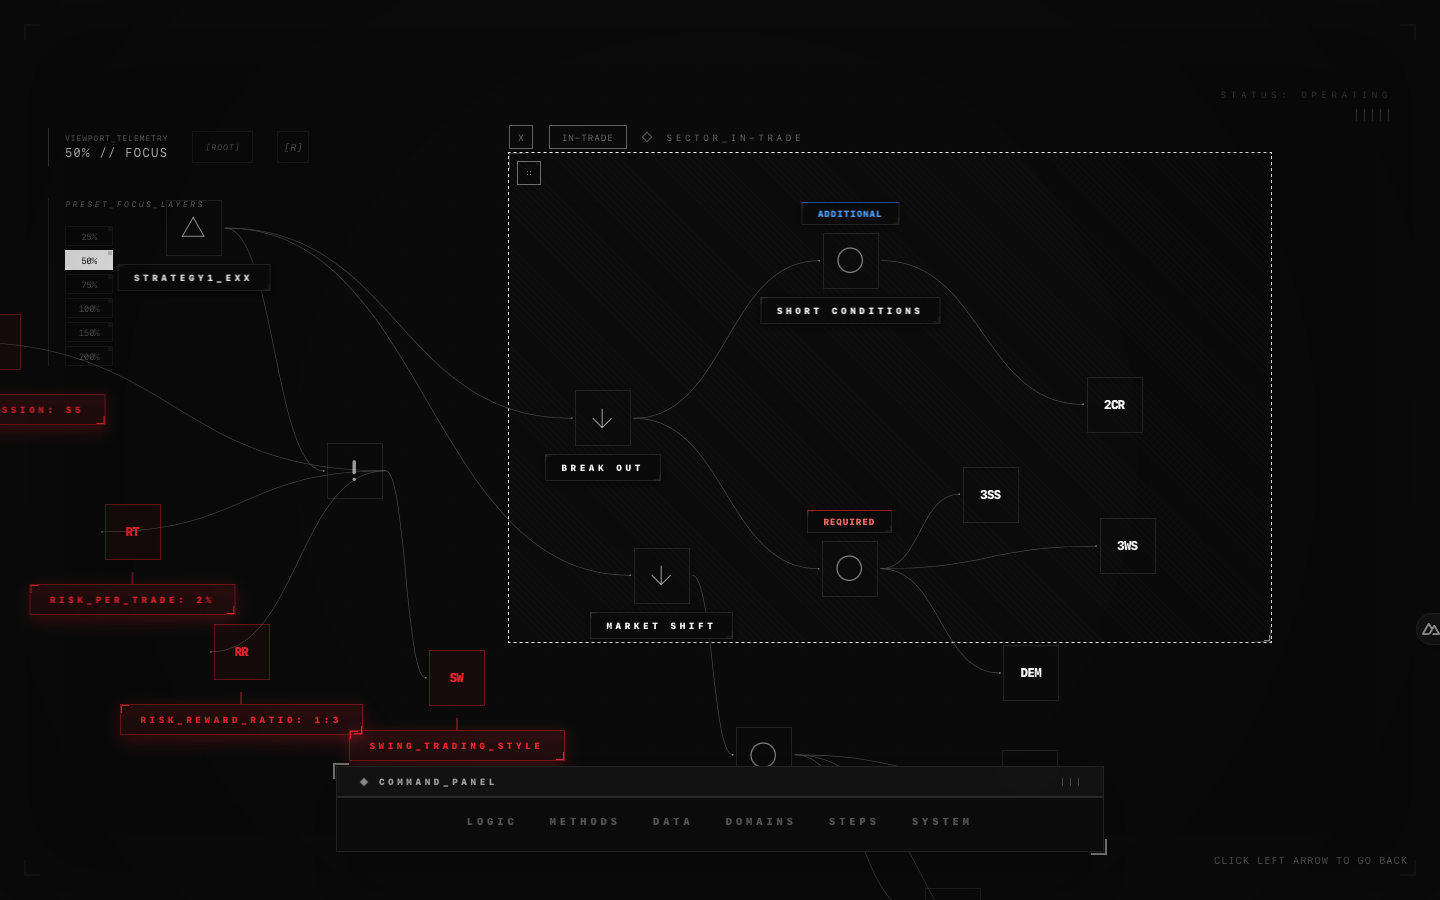
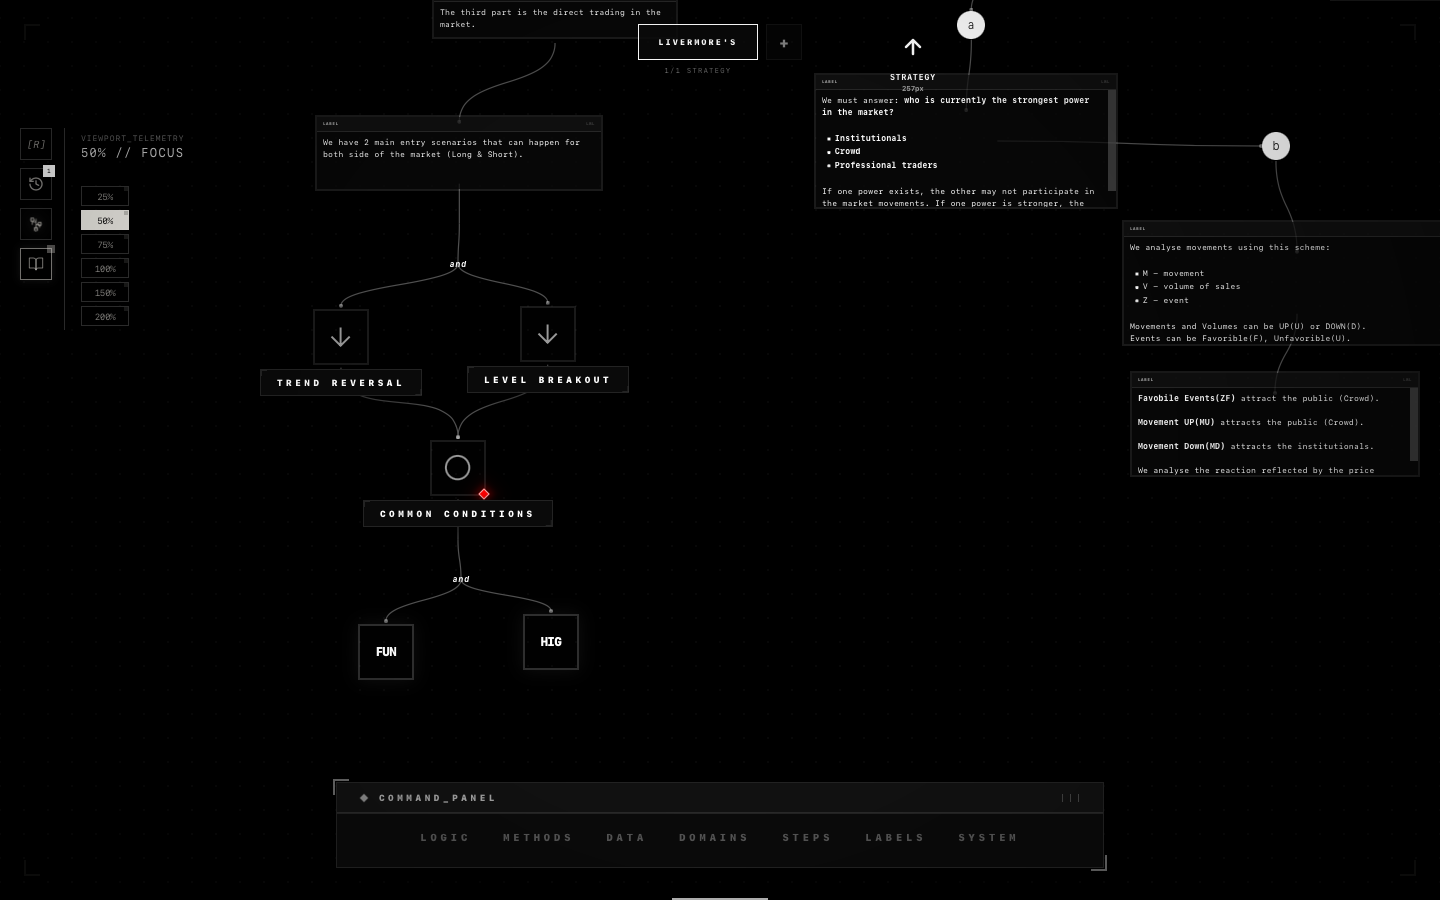
feat: update landing page feature layout and replace screenshots with new visuals

diff --git a/src/components/Main.vue b/src/components/Main.vue
@@ -340,114 +340,88 @@
       </div>
 
       <!-- Feature 1: Genesis Matrix -->
-      <div class="grid grid-cols-1 md:grid-cols-2 gap-16 lg:gap-24 items-center">
-        <div class="space-y-8 order-2 md:order-1">
-          
+      <div class="grid grid-cols-1 md:grid-cols-12 gap-12 lg:gap-16 items-center">
+        <div class="space-y-6 order-2 md:order-1 md:col-span-5">
           <h3 class="text-3xl lg:text-4xl font-light tracking-wide uppercase">{{ t('landing.features.genesis.title') }}</h3>
-          <p class="text-[16px] lg:text-[18px] leading-relaxed opacity-70 font-light">
+          <p class="text-[16px] lg:text-[18px] leading-relaxed opacity-80 font-light">
             {{ t('landing.features.genesis.desc') }}
           </p>
-          <ul class="space-y-3 font-mono text-[13px] lg:text-[15px] opacity-60">
-            <li class="flex items-center space-x-3">
-              <span class="w-2 h-2 rotate-45 bg-current"></span>
-              <span>{{ t('landing.features.genesis.point1') }}</span>
-            </li>
-            <li class="flex items-center space-x-3">
-              <span class="w-2 h-2 rotate-45 bg-current"></span>
-              <span>{{ t('landing.features.genesis.point2') }}</span>
-            </li>
-          </ul>
         </div>
-        <div class="order-1 md:order-2 relative group overflow-hidden border transition-all duration-500" :class="isDark ? 'border-white/10 hover:border-sky-500/30' : 'border-slate-200 hover:border-sky-600/30'">
+        <div class="order-1 md:order-2 md:col-span-7 relative w-full">
           <img 
             src="/screenshots/genesis-matrix.png" 
             alt="Genesis Matrix" 
-            class="w-full h-auto object-cover grayscale opacity-90 group-hover:grayscale-0 group-hover:scale-[1.02] transition-all duration-700"
+            class="w-full h-auto object-contain"
           />
         </div>
       </div>
 
-      <!-- Feature 2: Detailed Analysis / Virtual Log -->
-      <div class="grid grid-cols-1 md:grid-cols-2 gap-16 lg:gap-24 items-center">
-        <div class="relative group overflow-hidden border transition-all duration-500" :class="isDark ? 'border-white/10 hover:border-purple-500/30' : 'border-slate-200 hover:border-purple-600/30'">
-          <img 
-            src="/screenshots/detailed-analysis.png" 
-            alt="Detailed Analysis" 
-            class="w-full h-auto object-cover grayscale opacity-90 group-hover:grayscale-0 group-hover:scale-[1.02] transition-all duration-700"
-          />
-        </div>
-        <div class="space-y-8">
-          
-          <h3 class="text-3xl lg:text-4xl font-light tracking-wide uppercase">{{ t('landing.features.virtualLog.title') }}</h3>
-          <p class="text-[16px] lg:text-[18px] leading-relaxed opacity-70 font-light">
-            {{ t('landing.features.virtualLog.desc') }}
+      <!-- Feature 2: Trades Tree -->
+      <div class="grid grid-cols-1 md:grid-cols-12 gap-12 lg:gap-16 items-center">
+        <div class="space-y-6 order-2 md:order-1 md:col-span-5">
+          <h3 class="text-3xl lg:text-4xl font-light tracking-wide uppercase">{{ t('landing.features.tradesTree.title') }}</h3>
+          <p class="text-[16px] lg:text-[18px] leading-relaxed opacity-80 font-light">
+            {{ t('landing.features.tradesTree.desc') }}
           </p>
-          <ul class="space-y-3 font-mono text-[13px] lg:text-[15px] opacity-60">
-            <li class="flex items-center space-x-3">
-              <span class="w-2 h-2 rotate-45 bg-current"></span>
-              <span>{{ t('landing.features.virtualLog.point1') }}</span>
-            </li>
-            <li class="flex items-center space-x-3">
-              <span class="w-2 h-2 rotate-45 bg-current"></span>
-              <span>{{ t('landing.features.virtualLog.point2') }}</span>
-            </li>
-          </ul>
+        </div>
+        <div class="order-1 md:order-2 md:col-span-7 relative w-full">
+          <img 
+            src="/screenshots/trades-tree.png" 
+            alt="Trades Tree" 
+            class="w-full h-auto object-contain"
+          />
         </div>
       </div>
 
-      <!-- Feature 3: Advanced Equity Analysis -->
-      <div class="grid grid-cols-1 md:grid-cols-2 gap-16 lg:gap-24 items-center">
-        <div class="space-y-8 order-2 md:order-1">
-         
+
+      <!-- Feature 4: Deep Data -->
+      <div class="grid grid-cols-1 md:grid-cols-12 gap-12 lg:gap-16 items-center">
+        <div class="space-y-6 order-2 md:order-1 md:col-span-5">
+          <h3 class="text-3xl lg:text-4xl font-light tracking-wide uppercase">{{ t('landing.features.deepData.title') }}</h3>
+          <p class="text-[16px] lg:text-[18px] leading-relaxed opacity-80 font-light">
+            {{ t('landing.features.deepData.desc') }}
+          </p>
+        </div>
+        <div class="order-1 md:order-2 md:col-span-7 relative w-full">
+          <img 
+            src="/screenshots/deep-data.png" 
+            alt="Deep Data Telemetry" 
+            class="w-full h-auto object-contain"
+          />
+        </div>
+      </div>
+
+      <!-- Feature 5: Advanced Equity Analysis -->
+      <div class="grid grid-cols-1 md:grid-cols-12 gap-12 lg:gap-16 items-center">
+        <div class="space-y-6 order-2 md:order-1 md:col-span-5">
           <h3 class="text-3xl lg:text-4xl font-light tracking-wide uppercase">{{ t('landing.features.equity.title') }}</h3>
-          <p class="text-[16px] lg:text-[18px] leading-relaxed opacity-70 font-light">
+          <p class="text-[16px] lg:text-[18px] leading-relaxed opacity-80 font-light">
             {{ t('landing.features.equity.desc') }}
           </p>
-          <ul class="space-y-3 font-mono text-[13px] lg:text-[15px] opacity-60">
-            <li class="flex items-center space-x-3">
-              <span class="w-2 h-2 rotate-45 bg-current"></span>
-              <span>{{ t('landing.features.equity.point1') }}</span>
-            </li>
-            <li class="flex items-center space-x-3">
-              <span class="w-2 h-2 rotate-45 bg-current"></span>
-              <span>{{ t('landing.features.equity.point2') }}</span>
-            </li>
-          </ul>
         </div>
-        <div class="order-1 md:order-2 relative group overflow-hidden border transition-all duration-500" :class="isDark ? 'border-white/10 hover:border-emerald-500/30' : 'border-slate-200 hover:border-emerald-600/30'">
+        <div class="order-1 md:order-2 md:col-span-7 relative w-full">
           <img 
             src="/screenshots/3d-equity.png" 
-            alt="3D Equity" 
-            class="w-full h-auto object-cover grayscale opacity-90 group-hover:grayscale-0 group-hover:scale-[1.02] transition-all duration-700"
+            alt="Advanced Equity Analysis" 
+            class="w-full h-auto object-contain"
           />
         </div>
       </div>
 
-      <!-- Feature 4: Isometric Engine Core (3D Cube) -->
-      <div class="grid grid-cols-1 md:grid-cols-2 gap-16 lg:gap-24 items-center">
-        <div class="relative group overflow-hidden border transition-all duration-500" :class="isDark ? 'border-white/10 hover:border-rose-500/30' : 'border-slate-200 hover:border-rose-600/30'">
-          <img 
-            src="/screenshots/3d-cube.png" 
-            alt="3D Cube" 
-            class="w-full h-auto object-cover grayscale opacity-90 group-hover:grayscale-0 group-hover:scale-[1.02] transition-all duration-700"
-          />
-        </div>
-        <div class="space-y-8">
-         
-          <h3 class="text-3xl lg:text-4xl font-light tracking-wide uppercase">{{ t('landing.features.engine.title') }}</h3>
-          <p class="text-[16px] lg:text-[18px] leading-relaxed opacity-70 font-light">
-            {{ t('landing.features.engine.desc') }}
+      <!-- Feature 6: Forum -->
+      <div class="grid grid-cols-1 md:grid-cols-12 gap-12 lg:gap-16 items-center">
+        <div class="space-y-6 order-2 md:order-1 md:col-span-5">
+          <h3 class="text-3xl lg:text-4xl font-light tracking-wide uppercase">{{ t('landing.features.forum.title') }}</h3>
+          <p class="text-[16px] lg:text-[18px] leading-relaxed opacity-80 font-light">
+            {{ t('landing.features.forum.desc') }}
           </p>
-          <ul class="space-y-3 font-mono text-[13px] lg:text-[15px] opacity-60">
-            <li class="flex items-center space-x-3">
-              <span class="w-2 h-2 rotate-45 bg-current"></span>
-              <span>{{ t('landing.features.engine.point1') }}</span>
-            </li>
-            <li class="flex items-center space-x-3">
-              <span class="w-2 h-2 rotate-45 bg-current"></span>
-              <span>{{ t('landing.features.engine.point2') }}</span>
-            </li>
-          </ul>
+        </div>
+        <div class="order-1 md:order-2 md:col-span-7 relative w-full">
+          <img 
+            src="/screenshots/forum.png" 
+            alt="Forum" 
+            class="w-full h-auto object-contain"
+          />
         </div>
       </div>
     </section>

diff --git a/src/shared/i18n/translations.ts b/src/shared/i18n/translations.ts
@@ -19,27 +19,24 @@ export const translations = {
         subtitle: "Analytical Grid Capabilities",
         genesis: {
           title: "Genesis Matrix",
-          desc: "An interactive environment designed for creating a comprehensive trading system through nodes and advanced connection systems. Easily map out your algorithmic flow.",
-          point1: "Node-based system creation",
-          point2: "Visual connection mapping"
+          desc: "An advanced, interactive environment engineered for architecting comprehensive trading systems from the ground up. Precisely map out complex algorithmic flows and define conditional logic paths using an intuitive node-based interface."
         },
-        virtualLog: {
-          title: "Virtual Log & Trading Diary",
-          desc: "A comprehensive journal for analyzing your trading system scenarios, reviewing the precise conditions used for opening and closing trades, and checking your emotional state.",
-          point1: "Trade condition analysis",
-          point2: "Emotional state logging"
+        tradesTree: {
+          title: "Strategy Architecture",
+          desc: "Visualize and manage your entire trading protocol as a clearly structured hierarchical node tree. Isolate variables, define strict logic gates, and separate execution layers with absolute clarity."
+        },
+
+        deepData: {
+          title: "Deep Data Telemetry",
+          desc: "Dive deeply into granular performance metrics, risk exposure, and dynamic system indicators. Track every single tick and scenario outcome to continuously refine your edge in the market."
         },
         equity: {
           title: "Advanced Equity Analysis",
-          desc: "Expose and visualize your portfolio's performance with comprehensive robustness diagnostics and advanced equity simulations. Stress-test your models under various dynamic scenarios.",
-          point1: "Robustness diagnostics",
-          point2: "Equity simulations"
+          desc: "Expose and visualize the true performance of your portfolio with comprehensive robustness diagnostics and advanced equity simulations. Stress-test your models under various dynamic market conditions."
         },
-        engine: {
-          title: "Isometric Engine Core",
-          desc: "The visual heart of the platform. The application is entirely focused on delivering a stunning visual look and seamless interactivity, ensuring your experience is both beautiful and intuitive.",
-          point1: "Premium visual aesthetics",
-          point2: "Seamless interactivity"
+        forum: {
+          title: "Knowledge Exchange Protocol",
+          desc: "A dedicated, high-level module for discussing complex trading ideas and sharing strategic models. Engage with other operators to compare tactical setups and accelerate your learning curve."
         }
       },
       footer: {
@@ -198,27 +195,24 @@ export const translations = {
         subtitle: "Возможности Аналитической Сетки",
         genesis: {
           title: "Матрица Генезиса",
-          desc: "Интерактивная среда, разработанная для создания комплексной торговой системы через узлы и продвинутые системы связей. Легко выстраивайте поток ваших алгоритмов.",
-          point1: "Создание системы на базе узлов",
-          point2: "Визуализация связей"
+          desc: "Продвинутая интерактивная среда, разработанная для создания комплексной торговой системы с нуля. Выстраивайте сложные алгоритмические потоки и определяйте пути логики через удобный интерфейс."
         },
-        virtualLog: {
-          title: "Виртуальный Журнал и Торговый Дневник",
-          desc: "Комплексный журнал для анализа сценариев вашей торговой системы, рассмотрения точных условий для открытия и закрытия сделок, а также для проверки вашего эмоционального состояния.",
-          point1: "Анализ условий сделок",
-          point2: "Журналирование эмоционального состояния"
+        tradesTree: {
+          title: "Архитектура Стратегии",
+          desc: "Визуализируйте и управляйте всем торговым протоколом в виде четко структурированного иерархического дерева. Изолируйте переменные, строгие логические вентили и уровни исполнения с абсолютной ясностью."
+        },
+
+        deepData: {
+          title: "Глубокая Телеметрия Данных",
+          desc: "Погрузитесь в детализированные показатели производительности, рисков и динамических индикаторов. Отслеживайте каждый тик и результат сценария, чтобы непрерывно оттачивать свое преимущество."
         },
         equity: {
           title: "Продвинутый Анализ Капитала",
-          desc: "Визуализируйте эффективность вашего портфолио с помощью детальной диагностики устойчивости и продвинутых симуляций капитала. Проверьте ваши модели на прочность в различных динамических сценариях.",
-          point1: "Диагностика устойчивости",
-          point2: "Симуляции капитала"
+          desc: "Проанализируйте реальную эффективность портфеля с помощью детальной диагностики надежности и моделирования капитала. Тестируйте свои модели на прочность в различных рыночных условиях."
         },
-        engine: {
-          title: "Изометрическое Ядро Движка",
-          desc: "Визуальное сердце платформы. Приложение полностью сфокусировано на обеспечении потрясающего визуального вида и плавной интерактивности, делая ваш опыт одновременно красивым и интуитивно понятным.",
-          point1: "Премиальная визуальная эстетика",
-          point2: "Плавная интерактивность"
+        forum: {
+          title: "Протокол Обмена Знаниями",
+          desc: "Специализированный модуль для обсуждения сложных торговых идей и обмена стратегическими моделями. Взаимодействуйте с другими операторами для сравнения тактических сетапов и ускорения обучения."
         }
       },
       footer: {